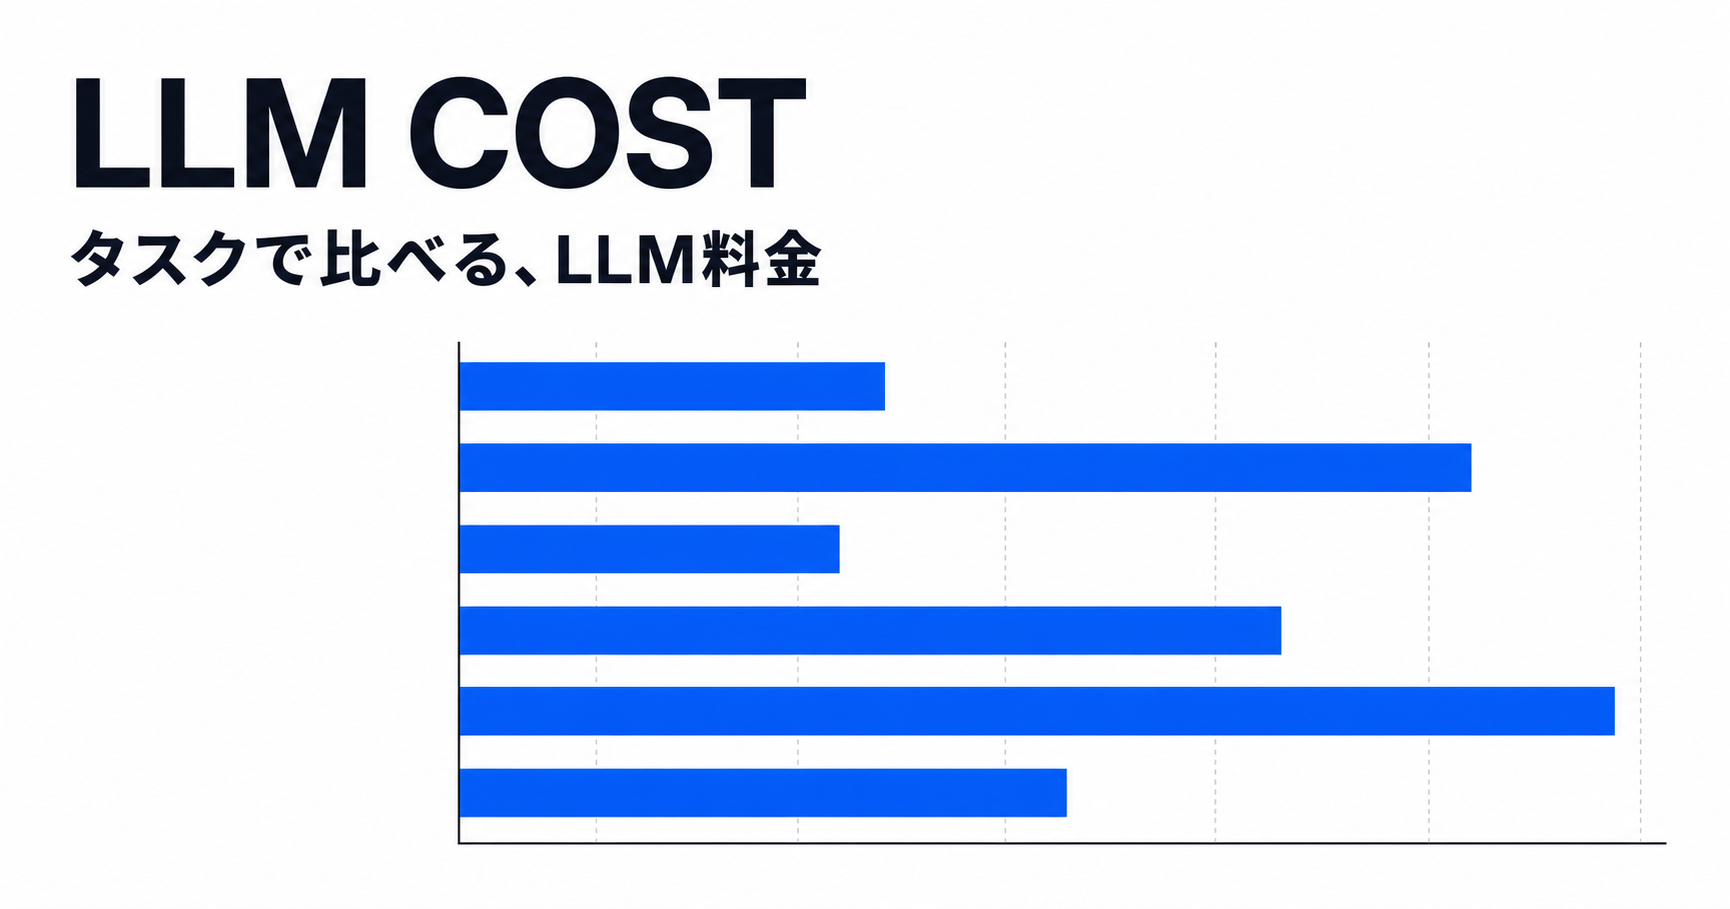
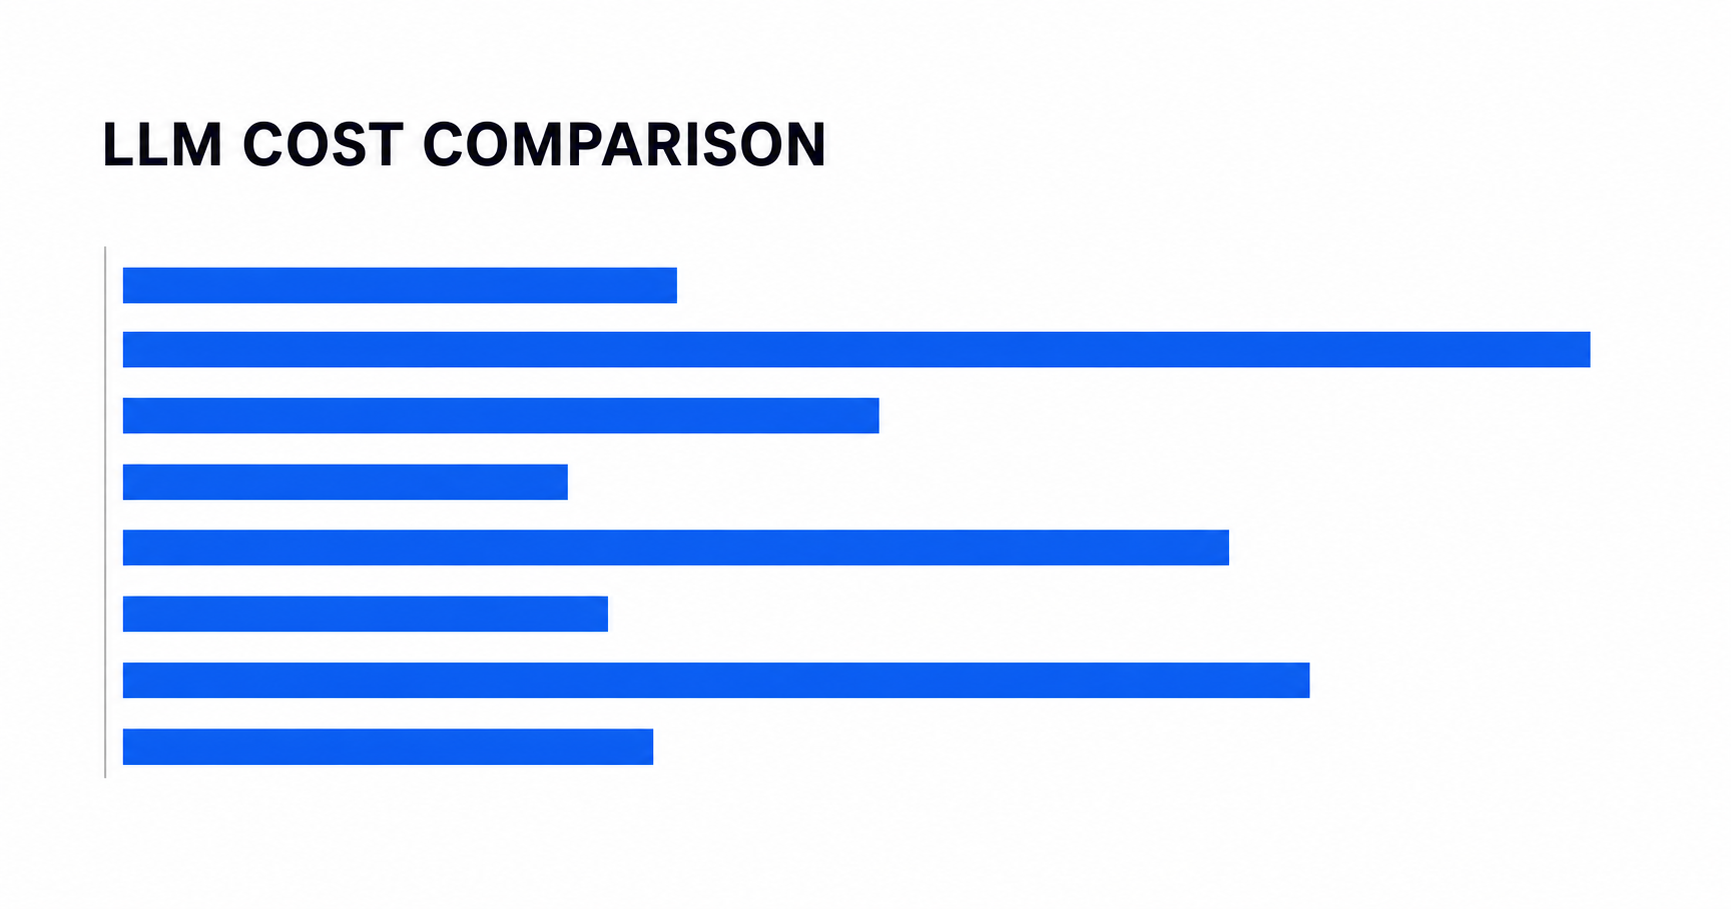
feat: expand models and use cases

Changed region(s): [[0.0312, 0.2464, 0.9364, 0.9549], [0.0312, 0.0616, 0.4994, 0.2156]]

diff --git a/app/CostComparison.tsx b/app/CostComparison.tsx
@@ -61,6 +61,46 @@ const defaultUseCases: UseCase[] = [
     cacheRead: 25_000,
     monthlyCount: 40,
   },
+  {
+    id: "summarization",
+    label: "長文の要約",
+    description: "長い文書・議事録を短く整理",
+    input: 100_000,
+    output: 5_000,
+    cacheWrite: 0,
+    cacheRead: 0,
+    monthlyCount: 30,
+  },
+  {
+    id: "data-analysis",
+    label: "データ分析",
+    description: "表データを読み、傾向と示唆を出力",
+    input: 60_000,
+    output: 15_000,
+    cacheWrite: 20_000,
+    cacheRead: 40_000,
+    monthlyCount: 20,
+  },
+  {
+    id: "translation",
+    label: "翻訳",
+    description: "まとまった文書を別言語へ翻訳",
+    input: 25_000,
+    output: 28_000,
+    cacheWrite: 2_000,
+    cacheRead: 5_000,
+    monthlyCount: 50,
+  },
+  {
+    id: "extraction",
+    label: "構造化抽出",
+    description: "文書から項目を抽出しJSON化",
+    input: 40_000,
+    output: 3_000,
+    cacheWrite: 5_000,
+    cacheRead: 15_000,
+    monthlyCount: 100,
+  },
 ];
 
 const tokenFields: { key: TokenKey; label: string }[] = [
@@ -95,10 +135,15 @@ function displayCost(value: number) {
 
 export function CostComparison() {
   const [mode, setMode] = useState<"task" | "monthly">("task");
+  const [sortDirection, setSortDirection] = useState<"asc" | "desc">("asc");
   const [useCases, setUseCases] = useState(defaultUseCases);
   const [activeUseCase, setActiveUseCase] = useState(defaultUseCases[0].id);
+  const uniqueProviders = useMemo(
+    () => [...new Set(pricingData.models.map((model) => model.provider))],
+    [],
+  );
   const [providers, setProviders] = useState(() =>
-    Object.fromEntries(pricingData.models.map((model) => [model.provider, true])),
+    Object.fromEntries(uniqueProviders.map((provider) => [provider, true])),
   );
 
   const selectedUseCase =
@@ -118,8 +163,10 @@ export function CostComparison() {
                 0,
               ),
       }))
-      .sort((a, b) => a.cost - b.cost);
-  }, [mode, providers, selectedUseCase, useCases]);
+      .sort((a, b) =>
+        sortDirection === "asc" ? a.cost - b.cost : b.cost - a.cost,
+      );
+  }, [mode, providers, selectedUseCase, sortDirection, useCases]);
 
   const maxCost = Math.max(...results.map((result) => result.cost), 0.000001);
 
@@ -142,10 +189,7 @@ export function CostComparison() {
   return (
     <main className="site-shell">
       <header className="site-header">
-        <div>
-          <p className="eyebrow">LLM API COST</p>
-          <h1>タスクで比べる、LLM料金</h1>
-        </div>
+        <h1>LLM Cost Comparison</h1>
         <div className="mode-switch" aria-label="計算モード">
           <button
             type="button"
@@ -233,7 +277,7 @@ export function CostComparison() {
             onClick={() =>
               setProviders(
                 Object.fromEntries(
-                  pricingData.models.map((model) => [model.provider, !allVisible]),
+                  uniqueProviders.map((provider) => [provider, !allVisible]),
                 ),
               )
             }
@@ -242,14 +286,14 @@ export function CostComparison() {
           </button>
         </div>
         <div className="filter-list">
-          {pricingData.models.map((model) => (
-            <label key={model.provider}>
+          {uniqueProviders.map((provider) => (
+            <label key={provider}>
               <input
                 type="checkbox"
-                checked={providers[model.provider]}
-                onChange={() => toggleProvider(model.provider)}
+                checked={providers[provider]}
+                onChange={() => toggleProvider(provider)}
               />
-              <span>{model.provider}</span>
+              <span>{provider}</span>
             </label>
           ))}
         </div>
@@ -261,7 +305,21 @@ export function CostComparison() {
             <p>{mode === "task" ? selectedUseCase.label : "設定した月間利用量"}</p>
             <h2 id="chart-title">{mode === "task" ? "1タスクあたり" : "1か月あたり"}</h2>
           </div>
-          <span>USD・API標準料金</span>
+          <div className="chart-options">
+            <span>USD・API標準料金</span>
+            <label>
+              <span className="sr-only">並び順</span>
+              <select
+                value={sortDirection}
+                onChange={(event) =>
+                  setSortDirection(event.target.value as "asc" | "desc")
+                }
+              >
+                <option value="asc">安い順</option>
+                <option value="desc">高い順</option>
+              </select>
+            </label>
+          </div>
         </div>
 
         <div className="chart" role="list" aria-label="モデル別料金">

diff --git a/app/globals.css b/app/globals.css
@@ -8,8 +8,7 @@ button,input { font:inherit; }
 button { color:inherit; }
 .site-shell { width:min(1120px,calc(100% - 40px)); margin:0 auto; padding:48px 0 28px; }
 .site-header { display:flex; align-items:end; justify-content:space-between; gap:24px; padding-bottom:30px; border-bottom:1px solid var(--ink); }
-.eyebrow { margin:0 0 8px; color:var(--accent); font:700 12px/1 var(--font-geist-mono); letter-spacing:.16em; }
-h1 { margin:0; font-size:clamp(30px,5vw,50px); line-height:1.08; letter-spacing:-.045em; font-weight:660; }
+h1 { margin:0; font-size:clamp(23px,3.4vw,34px); line-height:1.1; letter-spacing:-.035em; font-weight:650; }
 .mode-switch { display:inline-flex; padding:3px; background:var(--soft); border-radius:8px; }
 .mode-switch button { min-width:92px; padding:9px 13px; border:0; border-radius:6px; background:transparent; cursor:pointer; font-size:13px; font-weight:600; }
 .mode-switch button.active { background:#fff; box-shadow:0 1px 4px rgb(17 24 39/.12); }
@@ -44,7 +43,9 @@ h1 { margin:0; font-size:clamp(30px,5vw,50px); line-height:1.08; letter-spacing:
 .chart-heading { display:flex; justify-content:space-between; align-items:end; margin-bottom:26px; }
 .chart-heading p { margin:0 0 3px; color:var(--muted); font-size:12px; }
 .chart-heading h2 { margin:0; font-size:24px; letter-spacing:-.025em; }
-.chart-heading>span { color:var(--muted); font-size:11px; }
+.chart-options { display:flex; align-items:center; gap:12px; color:var(--muted); font-size:11px; }
+.chart-options select { padding:7px 26px 7px 9px; border:1px solid var(--line); border-radius:6px; color:var(--ink); background:#fff; font-size:11px; }
+.sr-only { position:absolute; width:1px; height:1px; padding:0; margin:-1px; overflow:hidden; clip:rect(0,0,0,0); white-space:nowrap; border:0; }
 .chart { display:grid; gap:13px; }
 .bar-row { display:grid; grid-template-columns:190px minmax(120px,1fr) 92px 42px; align-items:center; gap:14px; min-height:42px; }
 .model-name { min-width:0; }
@@ -76,7 +77,7 @@ th:first-child,td:first-child { text-align:left; }
   .assumptions { padding:15px; }
   .assumption-heading { align-items:start; flex-direction:column; }
   .token-grid { grid-template-columns:1fr; }
-  .chart-heading>span { display:none; }
+  .chart-options>span { display:none; }
   .bar-row { grid-template-columns:112px minmax(55px,1fr) 72px; }
   .model-name strong { font-size:12px; }
   .cost-label { font-size:11px; }

diff --git a/app/layout.tsx b/app/layout.tsx
@@ -11,7 +11,7 @@ export async function generateMetadata(): Promise<Metadata> {
   const host = requestHeaders.get("x-forwarded-host") ?? requestHeaders.get("host") ?? "localhost";
   const protocol = requestHeaders.get("x-forwarded-proto") ?? (host.includes("localhost") ? "http" : "https");
   const origin = `${protocol}://${host}`;
-  const title = "LLM Cost — タスク別API料金比較";
+  const title = "LLM Cost Comparison";
   const description = "主要LLMのAPI料金を、実際のユースケース別トークン量で比較します。";
 
   return {

diff --git a/app/page.tsx b/app/page.tsx
@@ -2,7 +2,7 @@ import type { Metadata } from "next";
 import { CostComparison } from "./CostComparison";
 
 export const metadata: Metadata = {
-  title: "LLM Cost — タスク別API料金比較",
+  title: "LLM Cost Comparison",
   description: "主要LLMのAPI料金を、実際のユースケース別トークン量で比較します。",
 };
 

diff --git a/README.md b/README.md
@@ -4,7 +4,7 @@
 
 ## 比較できること
 
-- タスク単価: 会話、リサーチ、ソフトウェア開発、ビジネス文書作成の1回あたり料金
+- タスク単価: 会話、リサーチ、開発、文書作成、要約、データ分析、翻訳、構造化抽出の1回あたり料金
 - 月額: 各タスクの月間回数を指定した合計料金
 - トークン内訳: 未キャッシュ入力、出力、キャッシュ書込、キャッシュ読込
 - プロバイダー絞り込みと横棒グラフ比較
@@ -13,7 +13,7 @@
 
 ## 収録モデル
 
-OpenAI GPT-5.6 Sol、Anthropic Claude Fable 5、xAI Grok 4.5、Google Gemini 3.5 Flash、Meta Muse Spark 1.1、MiniMax M3、Moonshot AI Kimi K2.7 Code、Z.AI GLM-5.2、DeepSeek V4 Pro、Alibaba Qwen3.7 Max。
+10社の主要モデルを、高性能・標準・低価格の各層から収録しています。モデル一覧と単価は `data/pricing.json` を参照してください。
 
 価格は `data/pricing.json` に100万トークンあたりのUSDで保存します。AlibabaのCNY料金は、更新時点のCNY/USDレートで換算します。公式にキャッシュ書込単価が設定されていない場合は通常入力単価、キャッシュ割引が公表されていない場合は通常入力単価を使います。
 
